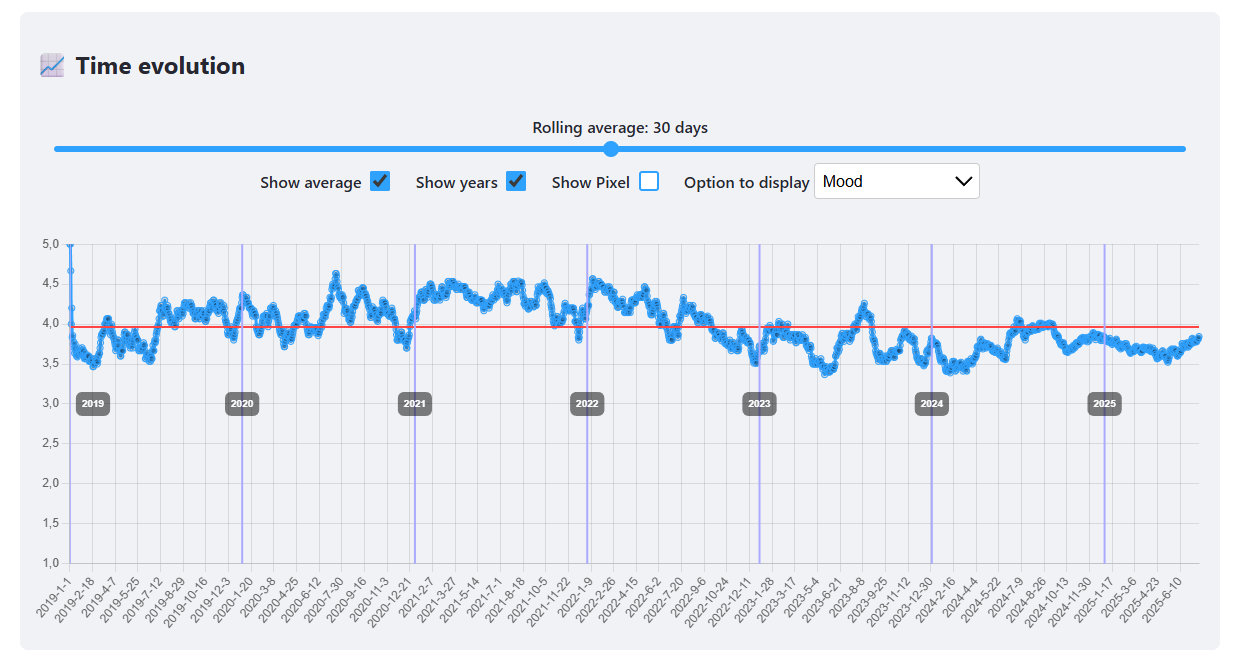
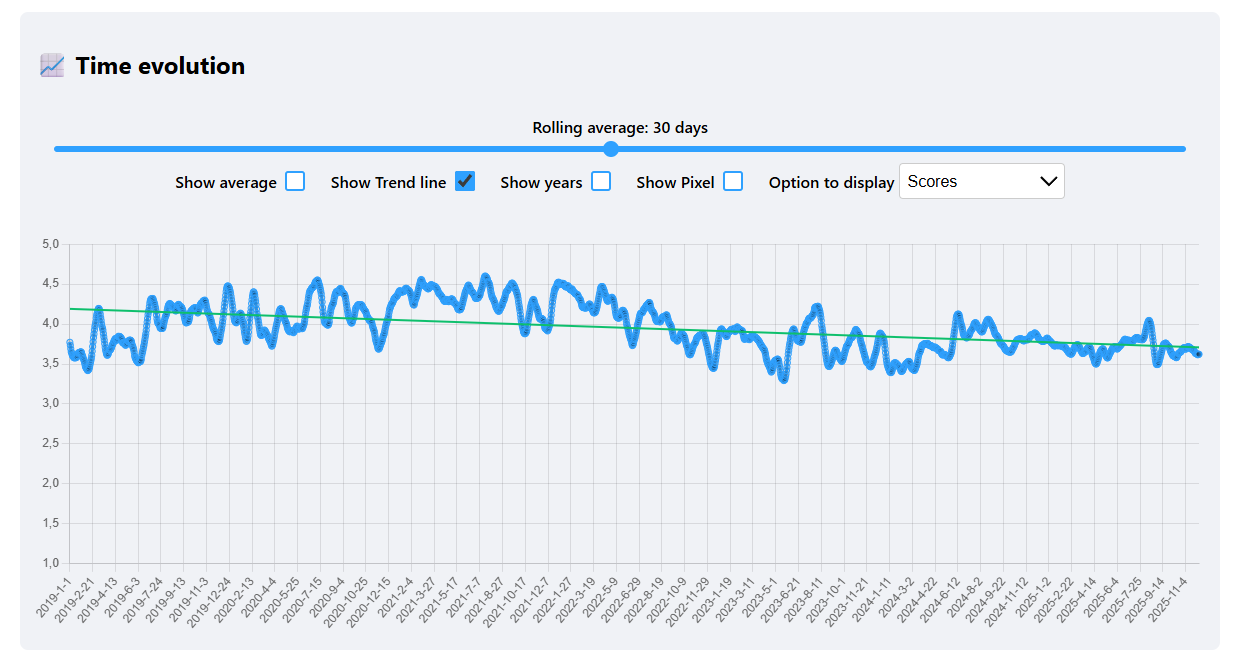
Docs: update documentation

diff --git a/index.html b/index.html
@@ -145,7 +145,7 @@
                             <input type="checkbox" id="showAverageCheckbox" class="checkbox">
                         </div>
                         <div class="option-item">
-                            <label for="showTrendLine" title="Show your overall trend as a line">Show Trend line</label>
+                            <label for="showTrendLine" title="Show your overall trend as a line">Show trend line</label>
                             <input type="checkbox" id="showTrendLine" class="checkbox" />
                         </div>
 
@@ -239,11 +239,11 @@
                                     <input type="checkbox" id="seasonColorsCheckbox" class="checkbox">
                                 </div>
                                 <div class="option-item">
-                                    <label for="sortMonthsCheckbox" title="Sort the months in the chart by average score">Sort Chart</label>
+                                    <label for="sortMonthsCheckbox" title="Sort the months in the chart by average score">Sort months</label>
                                     <input type="checkbox" id="sortMonthsCheckbox" class="checkbox">
                                 </div>
                                 <div class="option-item">
-                                    <label for="groupMonthsCheckbox" title="Group months into seasons">Group Months</label>
+                                    <label for="groupMonthsCheckbox" title="Group months into seasons">Group months</label>
                                     <input type="checkbox" id="groupMonthsCheckbox" class="checkbox">
                                 </div>
                             </div>
@@ -528,9 +528,9 @@
 
     <dialog id="dialogMoodMapping" class="div-dialog-settings">
         <div class="dialog-settings">
-            <h3>Map Custom Moods to Scores</h3>
+            <h3>Map custom moods to scores</h3>
             <p style="text-align: center; margin: 0.5rem 0; max-width: 400px; font-size: 0.95rem;">
-                We found custom moods that aren't in the base set.
+                You have custom moods that aren't in the base set.
                 <br>Please map each one to a score (1-5):
             </p>
             <div id="moodMappingContainer" class="dialog-settings-group" style="grid-template-columns: 1fr 1fr; gap: 1rem;"></div>

diff --git a/DOCS.md b/DOCS.md
@@ -87,6 +87,7 @@ This chart displays how daily scores change over time.
 Options:
 - `Rolling average`: smooth the line by averaging scores over N days (example: 7-day average on June 8 = average of June 2–8).
 - `Show average`: horizontal line showing the mean score for the selected period.
+- `Show trend line`: linear regression line showing overall trend.
 - `Show years`: vertical markers for each year start.
 - `Show Pixel`: when enabled, hovering a point shows the Pixel card; otherwise only clicking shows the card.
 - `Option to display`: 
@@ -121,6 +122,8 @@ View averages by weekday or month to spot patterns.
 Options:
 - `First day of week`: choose which day the week starts on.
 - `Season colors`: color months by season.
+- `Sort months`: sort months by average score instead of calendar order.
+- `Group months`: group months into seasons.
 
 <div align="center">
     <img src="assets/docs-screenshots/week-month.png" alt="Weekday and month charts" style="border-radius:5px;" />
